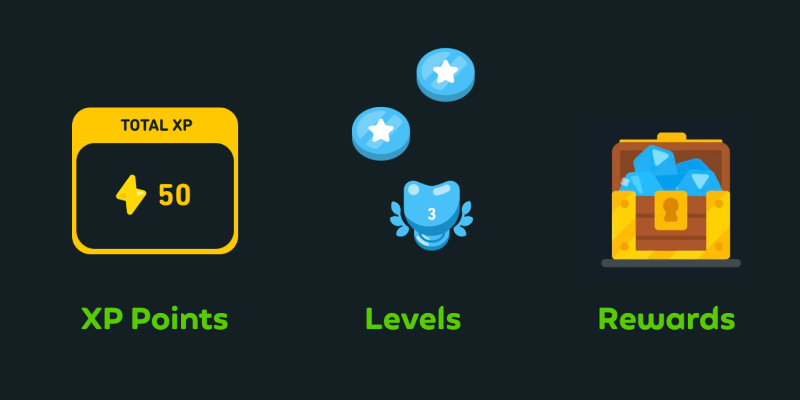
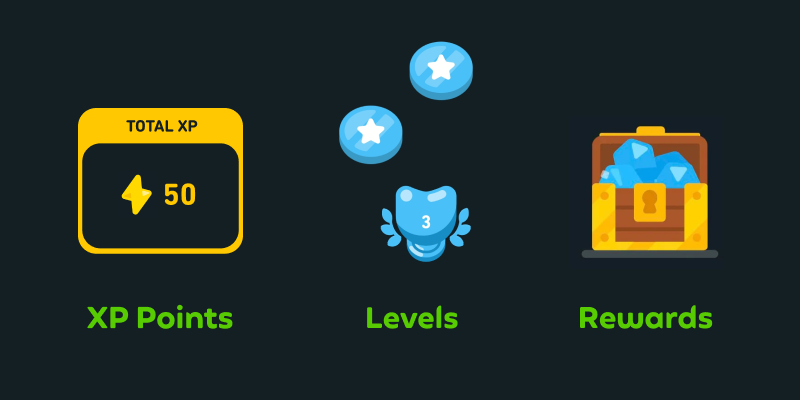
Updated with improved images and media query
Updated with better quality images and added media query to make images centered for smaller devices.

diff --git a/Duolingo's Notification Algorithm Gamifying Engagement and Learning/style.css b/Duolingo's Notification Algorithm Gamifying Engagement and Learning/style.css
@@ -26,7 +26,7 @@ body {
     color: #090e15;
     font-family: 'Karla', sans-serif;
     margin: 0;
-    padding: 0;
+    padding: 20px;
 }
 
 a {
@@ -115,31 +115,31 @@ article h2, article h3 {
 }
 
 p {
-  font-size: 1.2rem; /* Increase blog body text */
+  font-size: 1.2rem;
   line-height: 1.8;
   margin-bottom: 1.5rem;
 }
 
 img {
   display: block;
-  margin: 0 auto 20px; /* This centers the image and adds space at the bottom */
-  max-width: 100%; /* Ensure the image is responsive */
+  margin: 0 auto 20px;
+  max-width: 100%; 
   height: auto;
 }
 
 img.float-start {
   float: left;
-  margin-right: 20px; /* Adds space to the right of the image */
-  margin-bottom: 20px; /* Adds space below the image */
-  max-width: 100%; /* Keep it responsive */
+  margin-right: 20px; 
+  margin-bottom: 20px; 
+  max-width: 100%; 
   height: auto;
 }
 
 img.float-end {
   float: right;
-  margin-left: 20px; /* Adds space to the left of the image */
-  margin-bottom: 20px; /* Adds space below the image */
-  max-width: 100%; /* Keep it responsive */
+  margin-left: 25px;
+  margin-bottom: 20px;
+  max-width: 100%;
   height: auto;
 }
 
@@ -197,4 +197,13 @@ footer {
 /* Animations and transitions */
 .navbar-nav .nav-link, .tag-link, .blogImage {
     transition: all 0.3s ease;
+}
+
+/* Override float-start and float-end for smaller screens */
+@media (max-width: 600px) {
+  .float-start, .float-end {
+      float: none !important;
+      display: block; 
+      margin: 0 auto 15px; 
+  }
 }
